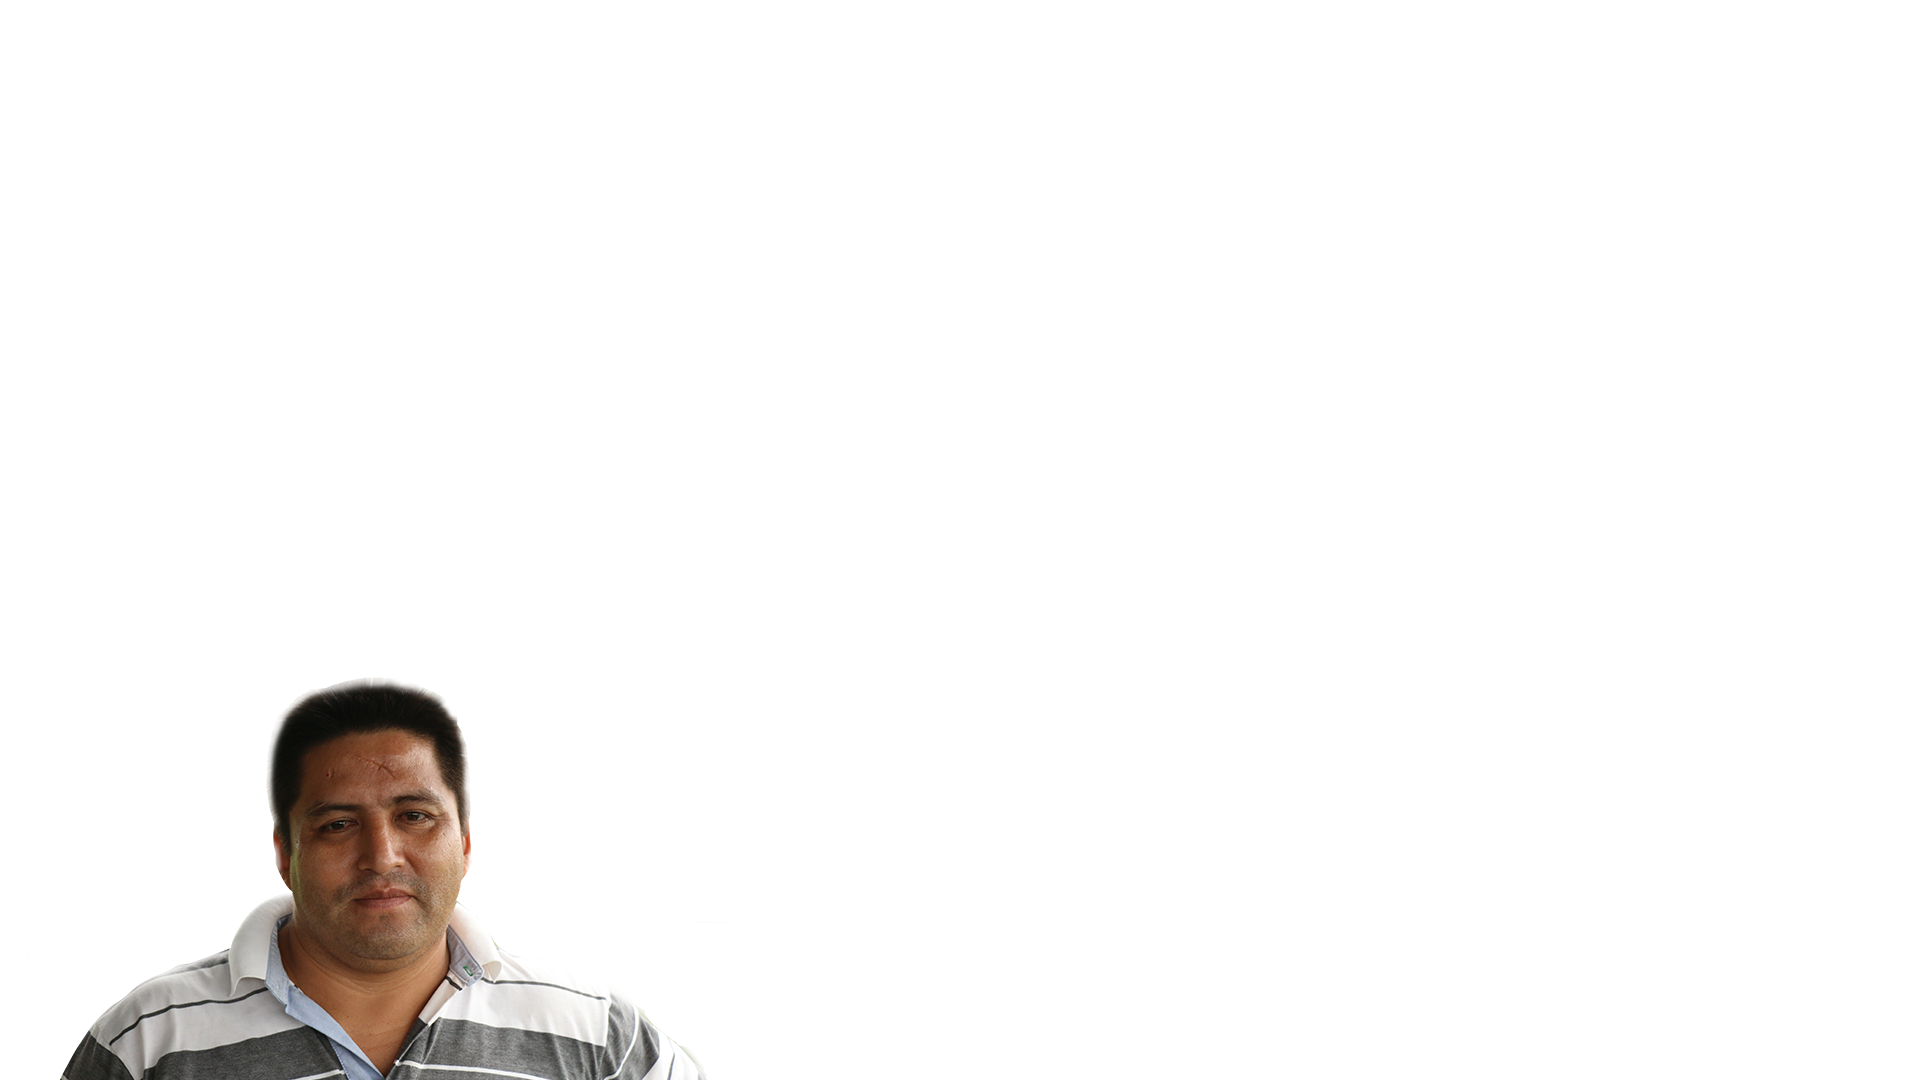
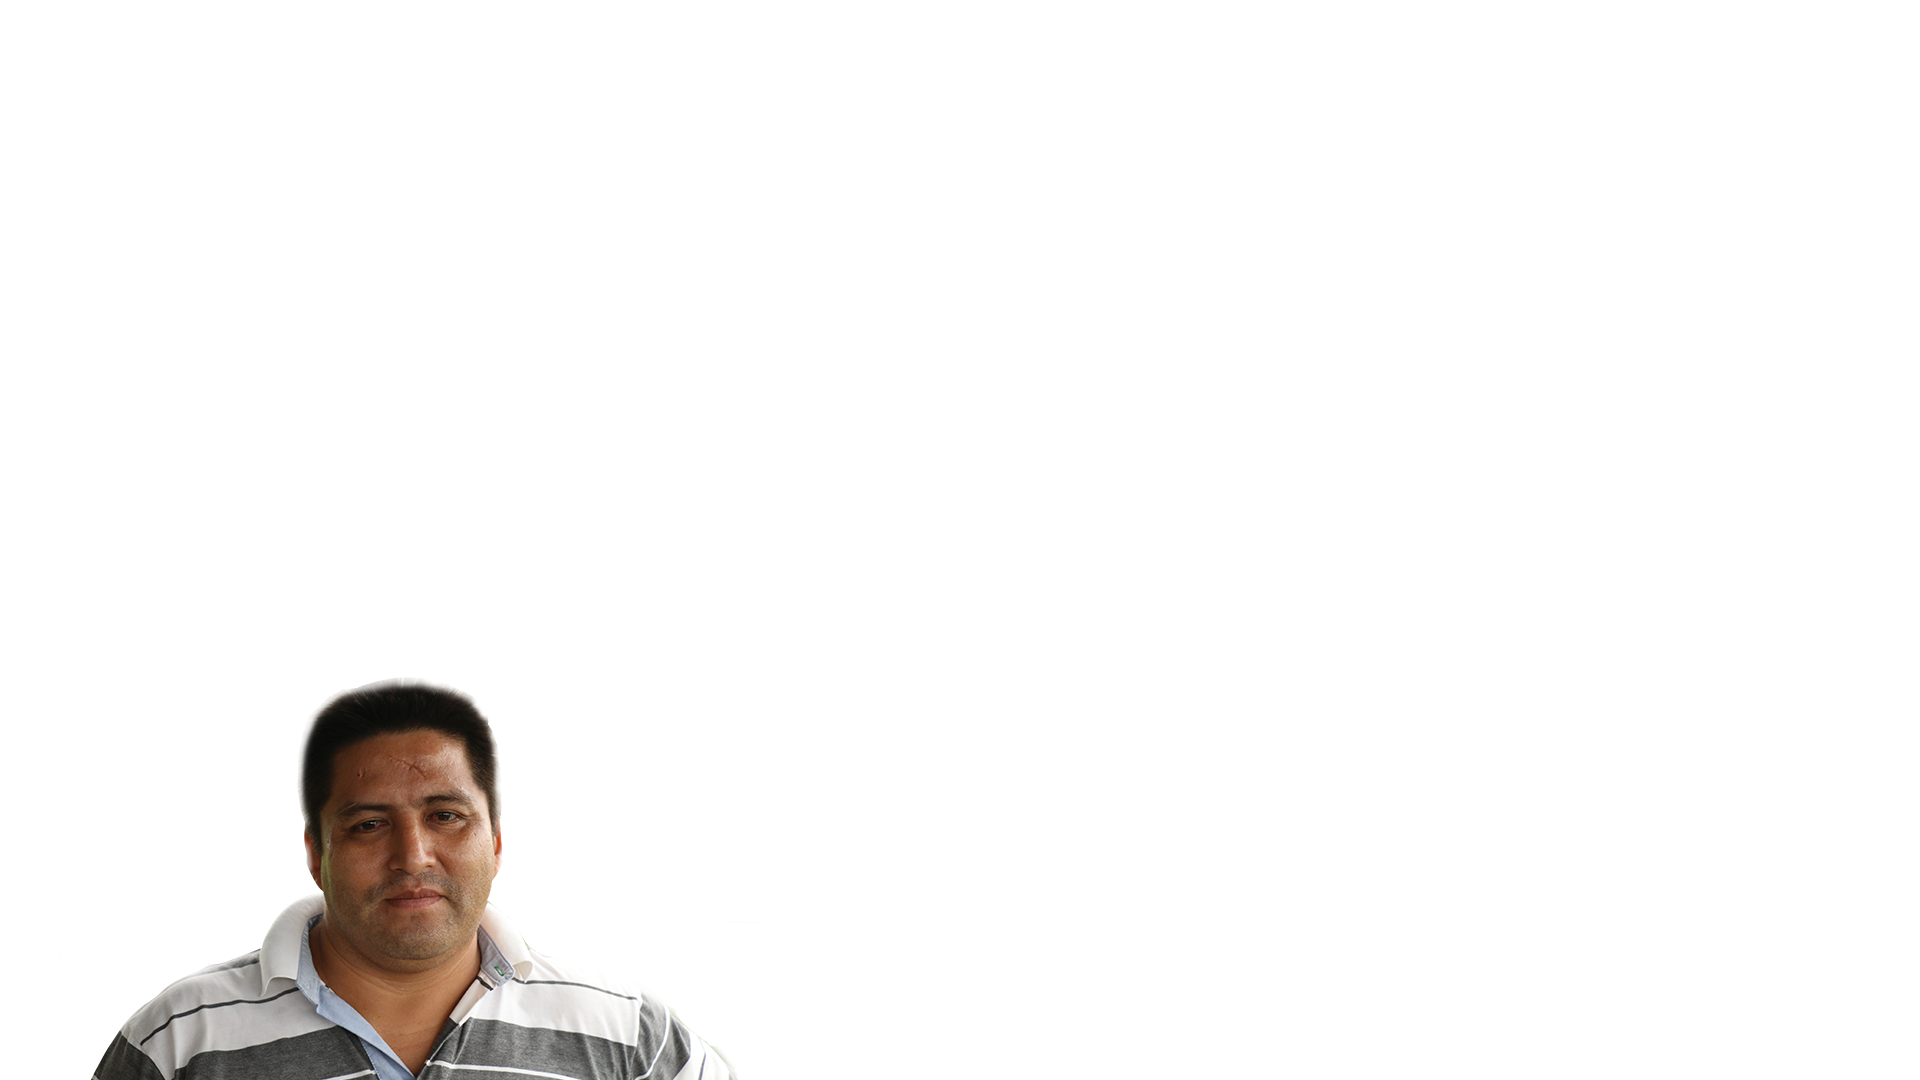
new photos, worker plight video

Changed region(s): [[0.0312, 0.6111, 0.375, 1.0]]

diff --git a/index.html b/index.html
@@ -31,6 +31,7 @@
       <!-- Additional required wrapper -->
       <div class="swiper-wrapper" data-hash="intro">
         <div class="swiper-slide">
+        <img src="img/sf/farmer1.png" class="fgimg">
           <div class="gradient"></div>
             <video autoplay loop class="bgvid">
               <!-- <source src="video/intro.webm" type="video/webm"> -->
@@ -41,7 +42,7 @@
               <p>&nbsp;</p>
               <h2>Beyond the Seal</h2>
               <div class="tagline">
-                <p>Small banana farmers fight for a fairer fruit.</p>
+                <p>Small banana farmers fight for a Fair Trade fruit.</p>
               </div>
               <p>&nbsp;</p>
               <div class="hr"><hr /></div>
@@ -58,11 +59,11 @@
                <source src="video/full/intro.mp4" type='video/mp4' />
                <p class="vjs-no-js">To view this video please enable JavaScript, and consider upgrading to a web browser that <a href="http://videojs.com/html5-video-support/" target="_blank">supports HTML5 video</a></p>
             </video>
-     		  <img src="img/sf/farmer1.png" class="fgimg">
           </div>
 
 
           <div class="swiper-slide" data-hash="2">
+            <div class="gradient"></div>
             <div class="gradient"></div>
             <div class="inner">
               <div class="firstcharacter">
@@ -80,6 +81,7 @@
         </div>
 
         <div class="swiper-slide" data-hash="3">
+          <div class="gradient"></div>
           <div class="gradient"></div>
           <div class="inner">
             <div class="read">
@@ -106,6 +108,7 @@
 
       <div class="swiper-slide" data-hash="5">
           <div class="gradient"></div>
+          <div class="gradient"></div>
           <div class="inner">
           <div class="firstcharacter">
               <span class="firstcharacter">A</span>
@@ -129,6 +132,7 @@
 
         </div>
         <div class="swiper-slide">
+          <div class="gradient"></div>
           <div class="gradient"></div>
           <div class="inner">
             <div class="read">
@@ -167,6 +171,7 @@
 
         <div class="swiper-slide">
           <div class="gradient"></div>
+          <div class="gradient"></div>
           <div class="inner">
             <div class="firstcharacter">
               <span class="firstcharacter">W</span>
@@ -194,6 +199,7 @@
 
         <div class="swiper-slide">
           <div class="gradient"></div>
+          <div class="gradient"></div>
           <div class="inner">
             <div class="read">
               <p>The Fair Trade movement aims to address the failings and injustices of global trade for small producers and workers. It seeks to give producers and workers access to lucrative global markets, greater control over their futures, the opportunity to receive a fair wage for their labor, a continuity of income, and decent living and working conditions.</p>
@@ -219,6 +225,7 @@
 
         <div class="swiper-slide">
           <div class="gradient"></div>
+          <div class="gradient"></div>
           <div class="inner">
             <div class="read">
               <p>Ecuador’s first small banana farmer co-operative, Asoguabo, was the first organization to export bananas under fair trade standards in the world. In 1997, Asoguabo’s 14 founders realized they could bypass middlemen and directly trade with consumers as a united, co-operative entity. A year later, after linking up with a Dutch NGO named Solidaridad, Asoguabo sold its first container. Since then, it has grown to 135 member farmers and exports 10 to 15 containers a week to Europe and the United States through Fair trade importers Agrofair and Equal Exchange. That means 135 small farmers are harvesting 10,000 bananas and shipping them across the world every week of the year on their own terms. </p>
@@ -228,6 +235,7 @@
       </div>
 
       <div class="swiper-slide">
+        <div class="gradient"></div>
         <div class="gradient"></div>
         <div class="inner">
             <div class="read">
@@ -262,6 +270,7 @@
 
       <div class="swiper-slide">
           <div class="gradient"></div>
+          <div class="gradient"></div>
           <div class="inner">
             <div class="read">
               <p>On the other side of the hemisphere from Asoguabo, Equal Exchange imports Fair Trade bananas. As a “model for how things can be different,” in the words of co-founder Rink Dinkerson, Equal Exchange is a mission rather than profit-driven business. Asoguabo coordinates many fragmented parts of the supply chain - port entry, ripening, distribution etc. - and this importing process can be vulnerable, costly and uneven. In contrast, multinationals own the different parts (containers, ships, ripening chambers, trucks, etc.) that go into transporting bananas from South America to stores across the U.S., and large volumes of sales help them absorb costs easily. Equal Exchange’s operation is a lot riskier--the company lost nearly $1 million in its first two years doing bananas.</p>
@@ -273,6 +282,7 @@
       </div>
 
       <div class="swiper-slide">
+          <div class="gradient"></div>
           <div class="gradient"></div>
           <div class="inner">
             <div class="read">
